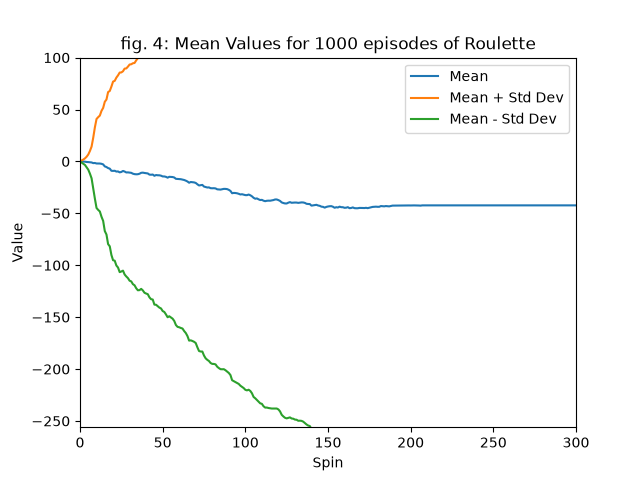
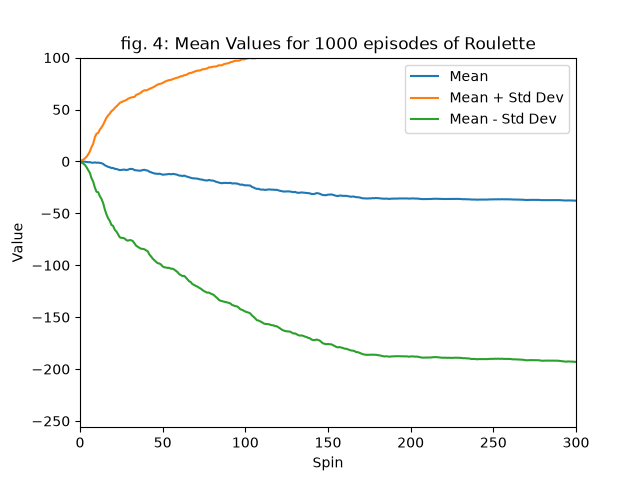
seems to be working

diff --git a/martingale.py b/martingale.py
@@ -201,11 +201,6 @@ def episode_spin(episode_size, bankroll_limit, has_bankroll_limit):
     episode_winnings = 0
     attempts = 0
 
-    # smaller bankroll doesn't make it
-    # bankroll_limit = -25
-
-    # high limit looks like unlimited
-    # bankroll_limit = -999999999999999999999
     while episode_winnings < 80 and attempts < episode_size:
         won = False
         bet_amount = 1
@@ -222,8 +217,11 @@ def episode_spin(episode_size, bankroll_limit, has_bankroll_limit):
                 bet_amount = bet_amount * 2
             attempts = attempts + 1
             if episode_winnings <= bankroll_limit and has_bankroll_limit:
-                # print("bust")
+                # print("attempt", attempts, "bust")
                 break
+            if (bet_amount > 100):
+                # print("attempt", attempts, "episode_winnings", episode_winnings, "bet amount", bet_amount)
+                pass
     #fill remaining with highest value
     while attempts < episode_size:
         winnings_arr.append(episode_winnings)
@@ -237,28 +235,28 @@ def episode_spin_bankroll(episode_size, bankroll_limit, has_bankroll_limit):
     episode_winnings = 0
     attempts = 0
 
-    # smaller bankroll doesn't make it
-    # bankroll_limit = -25
-
-    # high limit looks like unlimited
-    # bankroll_limit = -999999999999999999999
     while episode_winnings < 80 and attempts < episode_size:
         won = False
         bet_amount = 1
         if episode_winnings <= bankroll_limit and has_bankroll_limit:
-            # print("bust")
+            # print("attempt", attempts, "top bust")
             break
-        while not won:
+        while not won and attempts < episode_size:
             won = get_spin_result(win_probability)
             winnings_arr.append(episode_winnings)
             if won:
                 episode_winnings = episode_winnings + bet_amount
             else:
                 episode_winnings = episode_winnings - bet_amount
-                bet_amount = bet_amount * 2
+                # std martingale, bet double 
+                if (episode_winnings + (bankroll_limit * -1)) > bet_amount * 2:
+                    bet_amount = bet_amount * 2
+                # broken martingale, bet what you got
+                else:
+                    bet_amount = episode_winnings + (bankroll_limit * -1)
             attempts = attempts + 1
             if episode_winnings <= bankroll_limit and has_bankroll_limit:
-                # print("bust")
+                # print("attempt", attempts, "episode_winnings", episode_winnings, "bust")
                 break
     #fill remaining with highest value
     while attempts < episode_size:
